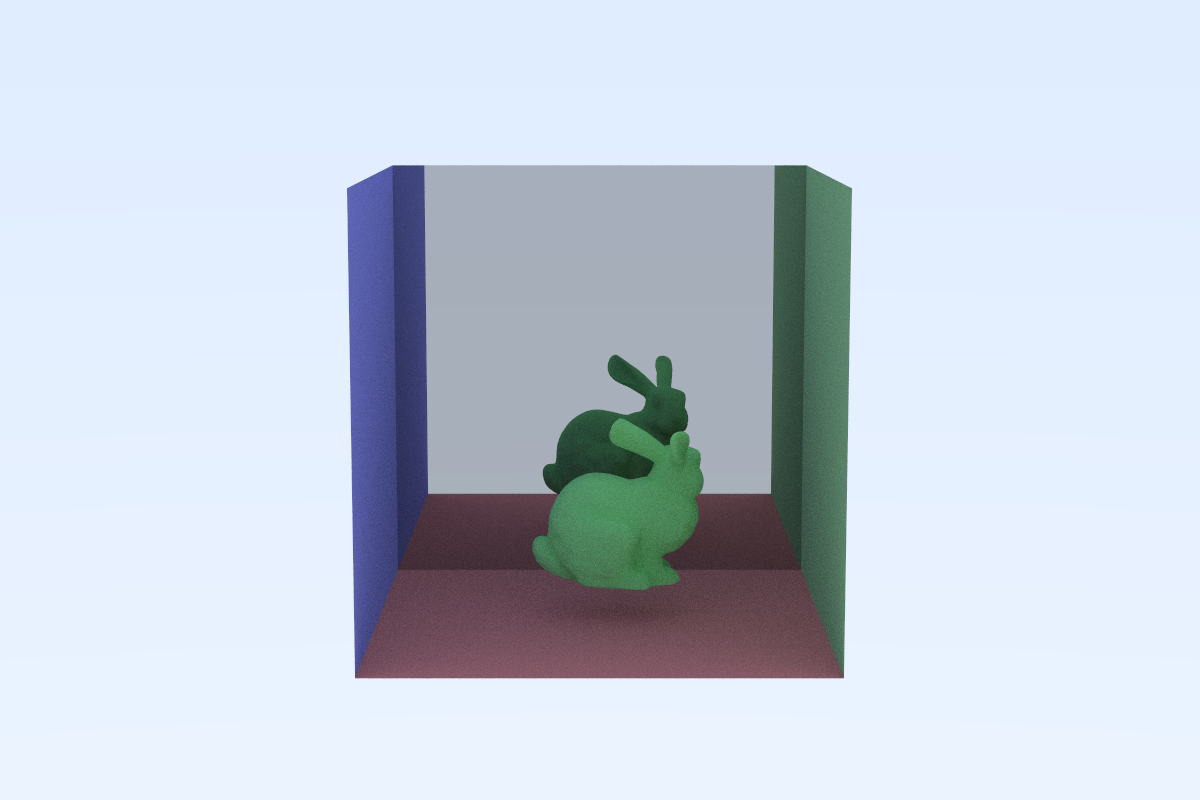
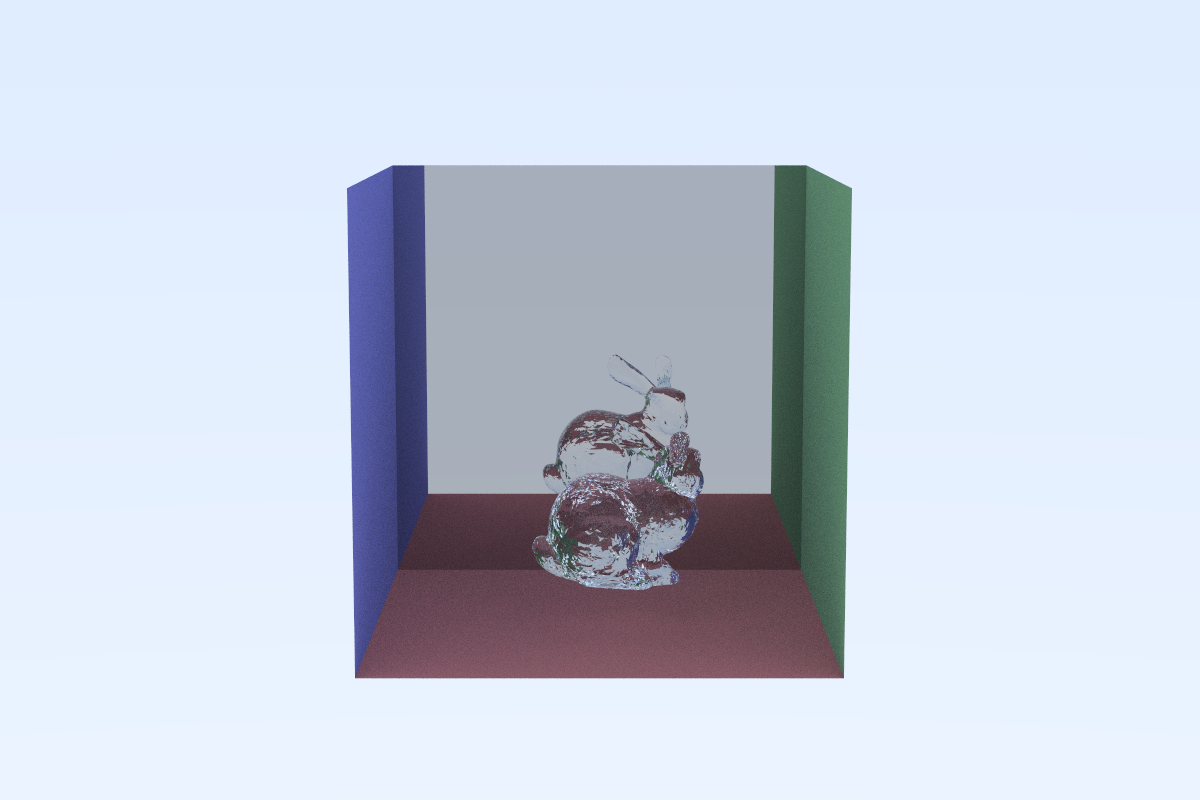
update image

Changed region(s): [[0.4317, 0.4375, 0.5858, 0.7812]]

diff --git a/PathTracerDemo.java b/PathTracerDemo.java
@@ -13,7 +13,7 @@ class PathTracerDemo {
         // Create the scene hittable
 
         HittableList world = new HittableList();
-        Model glassBunny = new Model("./model/bunny.obj", new Lambertian(new Vec3(0.2, 0.6, 0.2)));
+        Model glassBunny = new Model("./model/bunny.obj", new Dielectric(1.333));
         Rect floor = new Rect(
                 new Vec3(0, 0, 0),
                 new Vec3(0.2, 0, 0),
